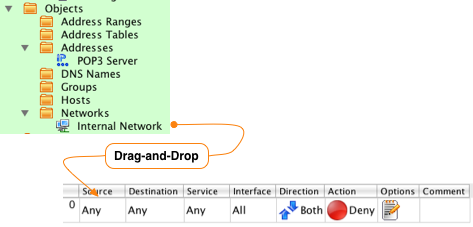
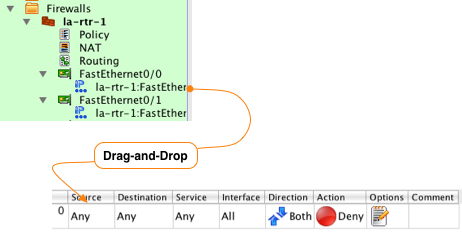
updated images and text for howto article

Changed region(s): [[0.0, 0.0, 1.0, 0.9868], [0.1212, 0.9559, 0.1515, 0.9868]]

diff --git a/howtoforge/router_acl/cisco_acl_getting_started_pg2.html b/howtoforge/router_acl/cisco_acl_getting_started_pg2.html
@@ -37,6 +37,11 @@
 <body>
             <h1>Getting Started: Configuring Cisco Router ACL</h1>
 
+            <p>
+            The router we are configuring access lists on has the following
+            interface configuration.
+            </p>
+
             <center>
             <img src="example_router.png" />
             </center>
@@ -52,6 +57,8 @@
               IP address (198.51.100.1) for the <b>POP3</b> protocol.</li>
               <li>Allow inside traffic (10.0.0.0/24) to the router's inside 
               interface (FastEthernet1/0) for the <b>SSH</b> protocol.</li>
+              <li>Block all incoming traffic to the router's outside interface
+              (FastEthernet0/0).</li>
             </ul>
 
             <h2>Step 3: Configure Access Lists</h2>
@@ -76,10 +83,11 @@
 
             <p>
             The first rule in our example is to allow internal network traffic to use 
-            the HTTP, HTTPS and DNS protocols to access the Internet. Start by dragging 
-            your Network object called Internal Network that you previously created to 
-            represent the internal 10.0.0.0/24 network to the Source section of the rule 
-            in the Rules window. 
+            the HTTP and HTTPS protocols to access the Internet. In this example
+            the router is NAT'ing the internal network to the IP address on the 
+            FastEthernet interface. Since in the order of operations on Cisco routers
+            is that NAT takes place <b>before</b> the outbound access list is checked 
+            the source for the outbound rules must be the post-NAT IP address.
             </p>
 
             <center>
@@ -104,8 +112,8 @@
             
             <p>
             Next we want to define the protocols or services this rule will allow. 
-            The example calls for the HTTP, HTTPS and DNS services to be allowed 
-            out to the Internet.
+            The example calls for the HTTP and HTTPS services to be allowed out
+            to the Internet.
             </p>
             
             <p>
@@ -149,10 +157,12 @@
             <br />
 
             <p>
-            Traffic from the 10.0.0.0/24 network will be arriving on the "inside" 
-            interface FastEthernet1/0.  Set the interface in the rule by 
-            dragging-and-dropping the FastEthernet1/0 interface object from the
-            tree to the Interface section of the rule.
+            Due to the NAT configuration that is setup on the router traffic from the 
+            10.0.0.0/24 network will be NAT'ed by the router to its outside IP address 
+            (192.0.2.1).  This means the traffic that we want to match with our rule
+            will be sent out the FastEthernet0/0 interface. Set the interface in the 
+            rule by dragging-and-dropping the FastEthernet0/0 interface object from 
+            the tree to the Interface section of the rule.
             </p>
             
             <center>
@@ -160,11 +170,14 @@
             </center>
 
             <p>
-            Traffic will be arriving in the inbound direction on this interface, so
-            we right-click in the Direction section and select Inbound. Finally we 
-            need to change the Action associated with this rule from Deny to Accept. 
-            Do this by right-clicking on the Action section of the rule an selecting 
-            Accept. You should now see a rule that looks like:
+            Traffic will be going in the outbound direction on this interface, so
+            we right-click in the Direction section and select Outbound. We want this
+            traffic to be allowed, so we need to change the Action associated with this 
+            rule from Deny to Accept. Do this by right-clicking on the Action section 
+            of the rule an selecting Accept. Finally, since this is a rule that we 
+            expect to match a lot of traffic disable logging by right-clicking in the 
+            Options section and selecting Logging Off. You should now see a rule 
+            that looks like:
             </p>
 
             <center>
@@ -172,11 +185,9 @@
             </center>
 
             <p>
-            We need a matching rule to allow this traffic outbound on the "outside"
-            interface FastEthernet0/0. To add a new rule left-click on the first 
-            rule to select it and then right-click in the rule number section and 
-            select "Add New Rule Below". This creates a new rule with the default
-            policy of deny all.
+            The next rule in our example allows the internal network to access an 
+            external POP3 server. Click on the rule you just created and then 
+            right-click in the rule number section and select “Add New Rule Below”.  
             </p>
             
             <center>
@@ -184,34 +195,18 @@
             </center>
 
             <p>
-            Follow the same steps from the previous example to add Source as
-            Internal Network, set the Service to HTTP and HTTPS, set the Interface
-            to FastEthernet0/0, set the Direction to Outbound and set the Action
-            to Accept.
-            </p>
-
-            <center>
-            <img src="new_rule_2.png" />
-            </center>
-
-            <p>
-            The next rule in our example allows the internal network to access an 
-            external POP3 server. Click on the rule you just created and then 
-            right-click in the rule number section and select “Add New Rule Below”.  
-            </p>
-
-            <p>
             To access the objects that we created earlier we need to switch back to the 
             User library. Click on the drop down menu that says Standard and select User 
-            from the list. Drag-and-drop the Internal Network object from the tree on 
-            the left to the rule you just created placing it in the Source section.
+            from the list. Drag-and-drop the IP address object for the router's outside
+            inteface from the tree on the left to the rule you just created placing it 
+            in the Source section.
             </p>
 
             <p>
             <b>NOTE:</b> You can also copy-and-paste objects.  For example, you can
-            right-click on the Internal Network object in the first rule and select
-            Copy.  Navigate to the Source section of the new rule you just created
-            and right-click and select Paste.
+            right-click on the la-rtr-01:FastEthernet0/0:ip object in the first rule 
+            and select Copy. Navigate to the Source section of the new rule you just 
+            created and right-click and select Paste.
             </p>
 
             <p>
@@ -240,12 +235,13 @@
             </p>
 
             <p>
-            To set the interface the rule should be applied to drag-and-drop the "inside"
-            interface FastEthernet1/0 to the Interface section of the rule.
+            To set the interface the rule should be applied to drag-and-drop the "outside"
+            interface FastEthernet0/0 to the Interface section of the rule.
            
             <p>
             To change the Action to Accept right-click in the Action section of the
-            rule and select Accept.
+            rule and select Accept.  To disable logging for this rule, right-click on
+            the Options section and select Logging Off.
             </p>
 
             <p>
@@ -257,7 +253,7 @@
             </center>
            
             <p>
-            Now we need to add our 3rd and final rule.  This rule is designed to allow 
+            Now we need to add our 3rd rule.  This rule is designed to allow 
             SSH traffic from the internal network to the router’s inside interface. 
             </p>
 
@@ -276,10 +272,6 @@
             drop the IP address of the interface to the Destination section of
             the rule.
             </p>
-
-            <center>
-            <img src="rule_3_step2.png" />
-            </center>
 
             <p>
             To set the service to SSH switch to the Standard library by selecting 
@@ -300,18 +292,50 @@
             Since this rule only applies to inbound traffic on this interface set 
             the direction to Inbound by right-clicking in the Direction section and
             selecting Inbound. Finally, change the action for the rule by right-
-            clicking on the Action section and selecting Accept.
+            clicking on the Action section and selecting Accept. Since this rule
+            defines access to the router via SSH we will leave logging enabled for
+            this rule.
             </p>
 
             <p>
-            We are done with the rules in the example and they should look like
-            this:
+            You should now have 3 rules that look like:
             </p>
 
             <center>
             <img src="three_rules.png" />
             </center>
 
+            <p>
+            Finally, we need to add a rule to the router's outside interface that 
+            blocks all traffic trying to access the router directly on its outside
+            interface IP address.
+            </p>
 
+            <p>
+            To do this we follow the same process from the earlier examples. Since 
+            this rule should match all traffic coming from the Internet we leave the
+            Source section as Any. Set the Destination section by dragging-and-dropping
+            the IP address object for outside interface FastEthernet0/0. We want to
+            block all serices, so leave the Service section set to Any.  We want this
+            rule to match incoming traffic, so we right-click in the Direction section
+            and select Inbound.  The desired Action is to deny the traffic, so we 
+            leave that as the default.  Finally since this rule will potentially match
+            a lot of traffic we disable logging by right-clicking on the Options 
+            section and selecting Logging Off.
+            </p>
+
+            <p>
+            We are now done configuring the rules for our access lists and the
+            configuration should look like:
+            </p>
+
+            <center>
+            <img src="four_rules.png" />
+            </center>
+
+            <p>
+            In the next section we will go through the process of converting these
+            rules in to Cisco commands and installing them on the router.
+            </p>
   </body>
 </html>

diff --git a/howtoforge/router_acl/cisco_acl_getting_started.html b/howtoforge/router_acl/cisco_acl_getting_started.html
@@ -94,6 +94,22 @@
             end of the access list, so anything that we do not setup a rule to
             explicitly permit will be denied.
             </p>
+    
+            <p>
+            The NAT configuration on the router is as follows:
+            </p>
+
+            <p class="command">
+            interface FastEthernet0/0<br />
+             ip nat outside<br />
+            <br />
+            interface FastEthernet0/1<br />
+             ip nat inside<br />
+            <br />
+            access-list 1 permit 10.0.0.0 0.0.0.255<br />
+            <br />
+            ip nat inside source list 1 interface FastEthernet0/0 overload<br />
+            </p>
 
             <h2>Step 1: Create Network Objects</h2>
 
@@ -107,7 +123,7 @@
             POP3 server with an IP address of 198.51.100.1.
             </p>
 
-            <h3>Create a New Network</h3>
+            <h3>Create a New IP Network Object</h3>
 
             <p>
             To create the object that will represent our internal 10.0.0.0/24 network 
@@ -135,7 +151,7 @@
             the field you were editing the change will take effect immediately.
             </p>
 
-            <h3>Create a New Address</h3>
+            <h3>Create a New IP Address Object</h3>
 
             <p>
             Repeat this process to create an object that will represent the POP3 
